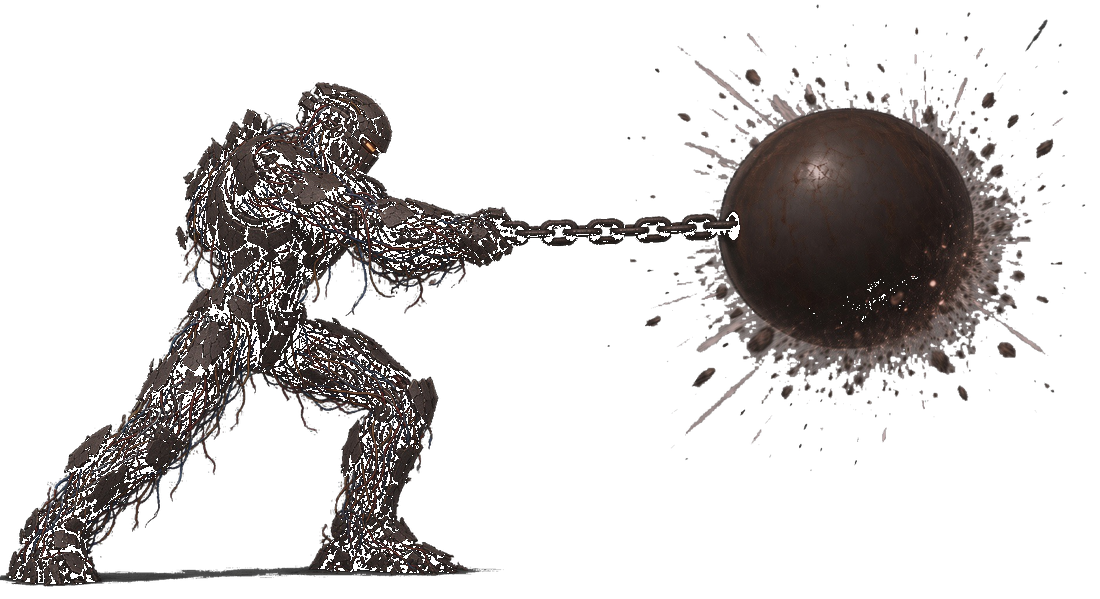
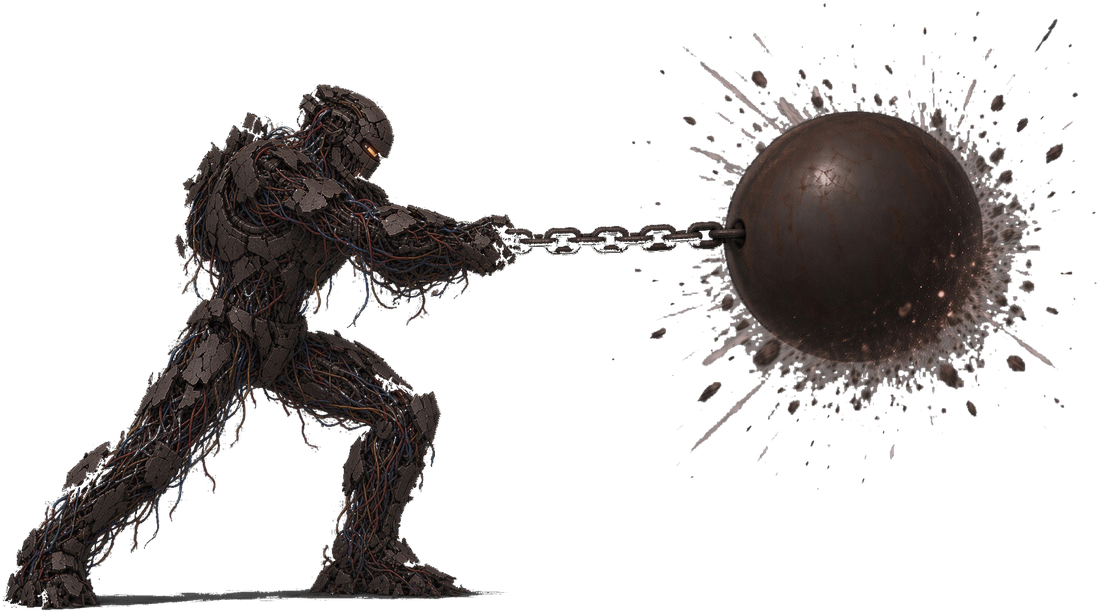
Óxido: capas medio/bajo/idle y pose de bloqueo.

diff --git a/game.js b/game.js
@@ -199,6 +199,7 @@
     oxidoIdleD1: loadImg("assets/oxido-idle-d1.png"),
     oxidoIdleD2: loadImg("assets/oxido-idle-d2.png"),
     oxidoIdleD3: loadImg("assets/oxido-idle-d3.png"),
+    oxidoBlock: loadImg("assets/oxido-block.png"),
     oxidoSkel: loadImg("assets/oxido-esqueleto.png"),
     oxidoHead: loadImg("assets/oxido-head.jpg"),
     oxidoTorso: loadImg("assets/oxido-torso.png"),
@@ -244,6 +245,7 @@
   oxidoDef.poseHigh = IMAGES.oxidoAtkHigh;
   oxidoDef.poseMid = IMAGES.oxidoAtkMid;
   oxidoDef.poseLow = IMAGES.oxidoAtkLow;
+  oxidoDef.poseBlock = IMAGES.oxidoBlock;
 
   const BODY = {
     tanque: { w: 96, h: 168, fist: 24, leg: 20, label: "Tanque" },
@@ -966,7 +968,7 @@
   }
 
   function drawDamagedOxido(ctx, f, raw, ox, oy, dw, dh) {
-    var paintedHigh = oxidoHighPainted(f) || oxidoMidPainted(f) || oxidoLowPainted(f) || oxidoIdlePainted(f);
+    var paintedHigh = oxidoHighPainted(f) || oxidoMidPainted(f) || oxidoLowPainted(f) || oxidoIdlePainted(f) || (f.state === "block" && !!(f.poseBlock && f.poseBlock.complete && f.poseBlock.naturalWidth));
     if (!paintedHigh) {
       var skel = oxidoSkelPose(f);
       if (skel && skel.complete && skel.naturalWidth) {
@@ -1028,9 +1030,13 @@
   function drawOxidoIdlePhoto(ctx, f, t) {
     if (f.exploded) return true;
     var pose = f.spriteImg;
-    if (f.state === "block" && f.poseBlock && f.poseBlock.complete && f.poseBlock.naturalWidth) pose = f.poseBlock;
-    var damagedIdle = oxidoIdleImg(f);
-    if (damagedIdle) pose = damagedIdle;
+    var blockingPose = f.state === "block" && f.poseBlock && f.poseBlock.complete && f.poseBlock.naturalWidth;
+    if (blockingPose) {
+      pose = f.poseBlock;
+    } else {
+      var damagedIdle = oxidoIdleImg(f);
+      if (damagedIdle) pose = damagedIdle;
+    }
     if (!pose || !pose.complete || !pose.naturalWidth) return false;
     var im = cutOxidoImg(pose);
     var iw = im.naturalWidth || im.width;
@@ -1041,7 +1047,7 @@
     if (f.state === "hit") bob += 6;
     var dh = (f.h || 180) * (f.drawScale || 1) * 1.55;
     var dw = dh * (iw / ih);
-    var lean = f.state === "block" ? -8 : (walking ? Math.sin(t * 7) * 3 : 0);
+    var lean = f.state === "block" ? 0 : (walking ? Math.sin(t * 7) * 3 : 0);
     ctx.save();
     ctx.translate(f.x, f.y + bob);
     ctx.scale(f.facing || 1, 1);

diff --git a/index.html b/index.html
@@ -8,7 +8,7 @@
   <meta name="apple-mobile-web-app-status-bar-style" content="black-translucent" />
   <meta name="theme-color" content="#05070f" />
   <title>Peleas de Robots</title>
-  <link rel="stylesheet" href="style.css?v=29" />
+  <link rel="stylesheet" href="style.css?v=30" />
 </head>
 <body>
   <div id="app">
@@ -184,6 +184,6 @@
       </div>
     </section>
   </div>
-  <script src="game.js?v=29"></script>
+  <script src="game.js?v=30"></script>
 </body>
 </html>
